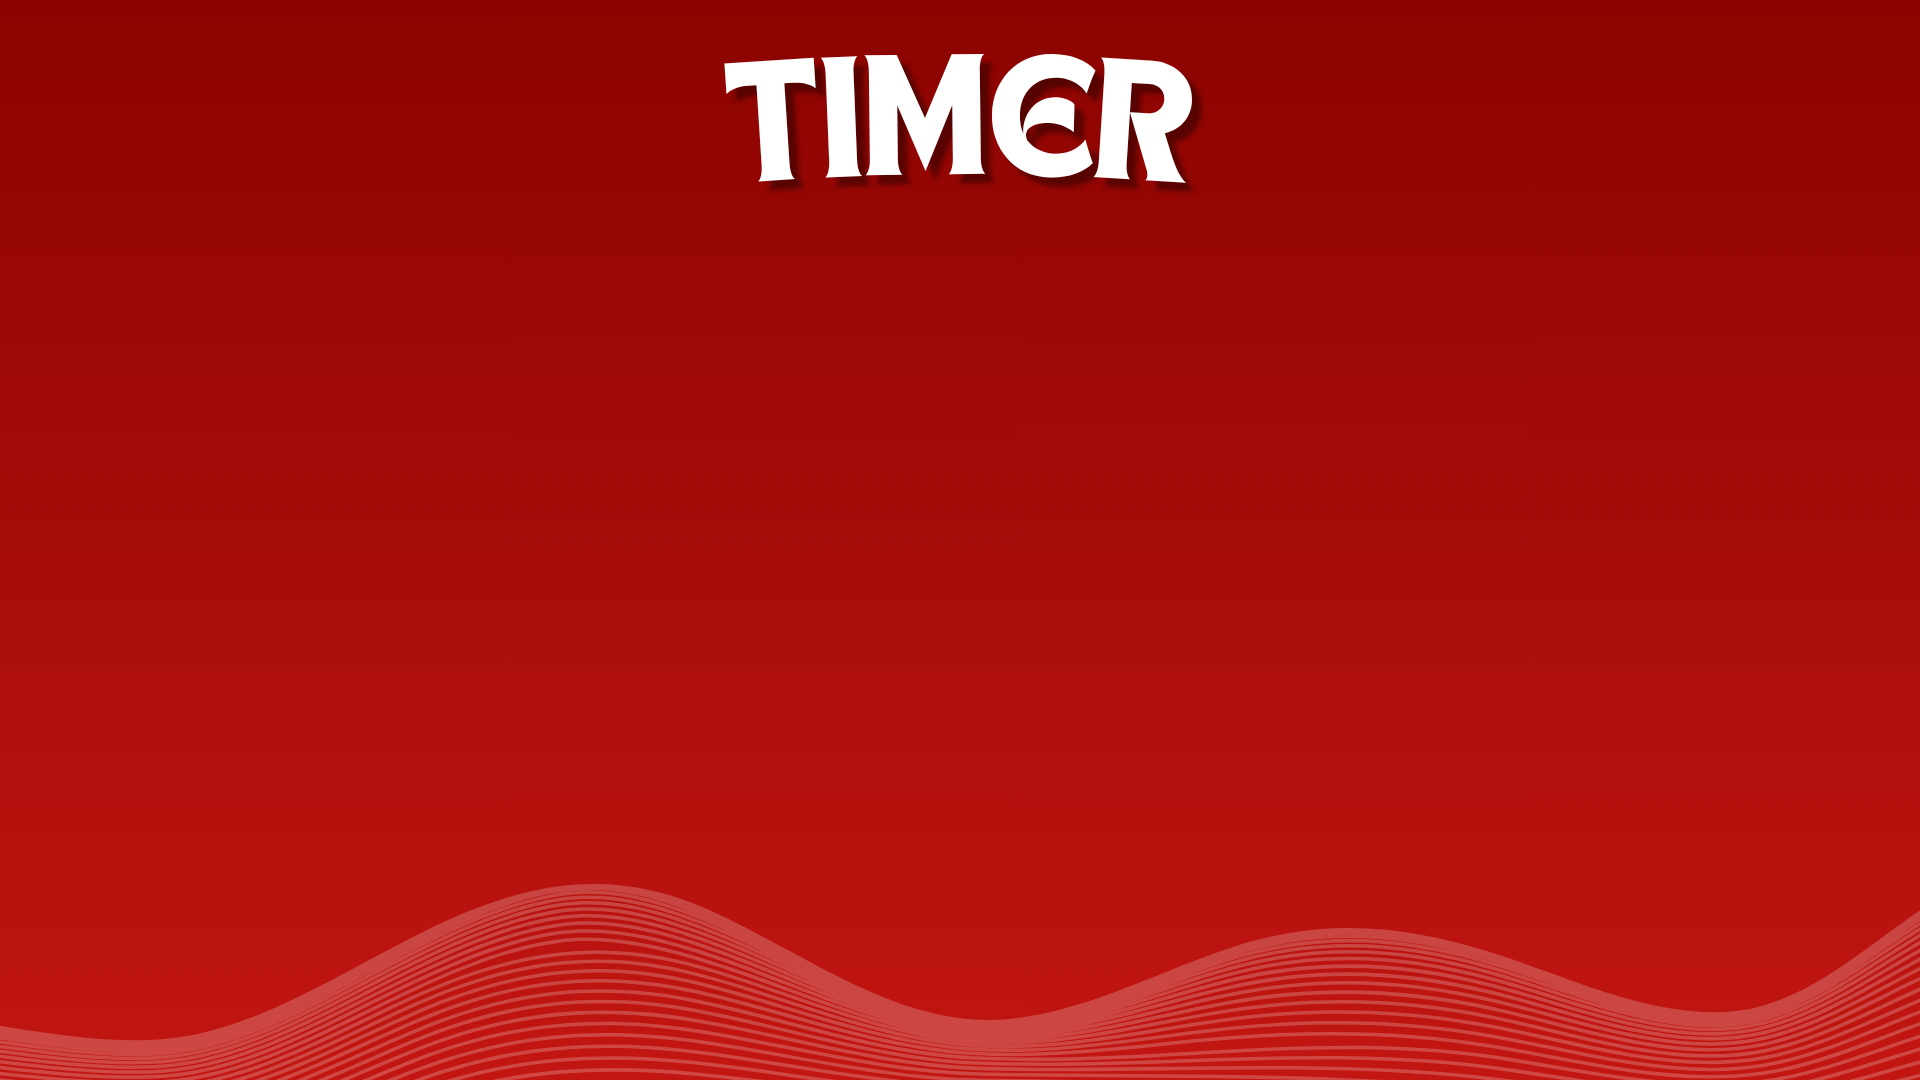
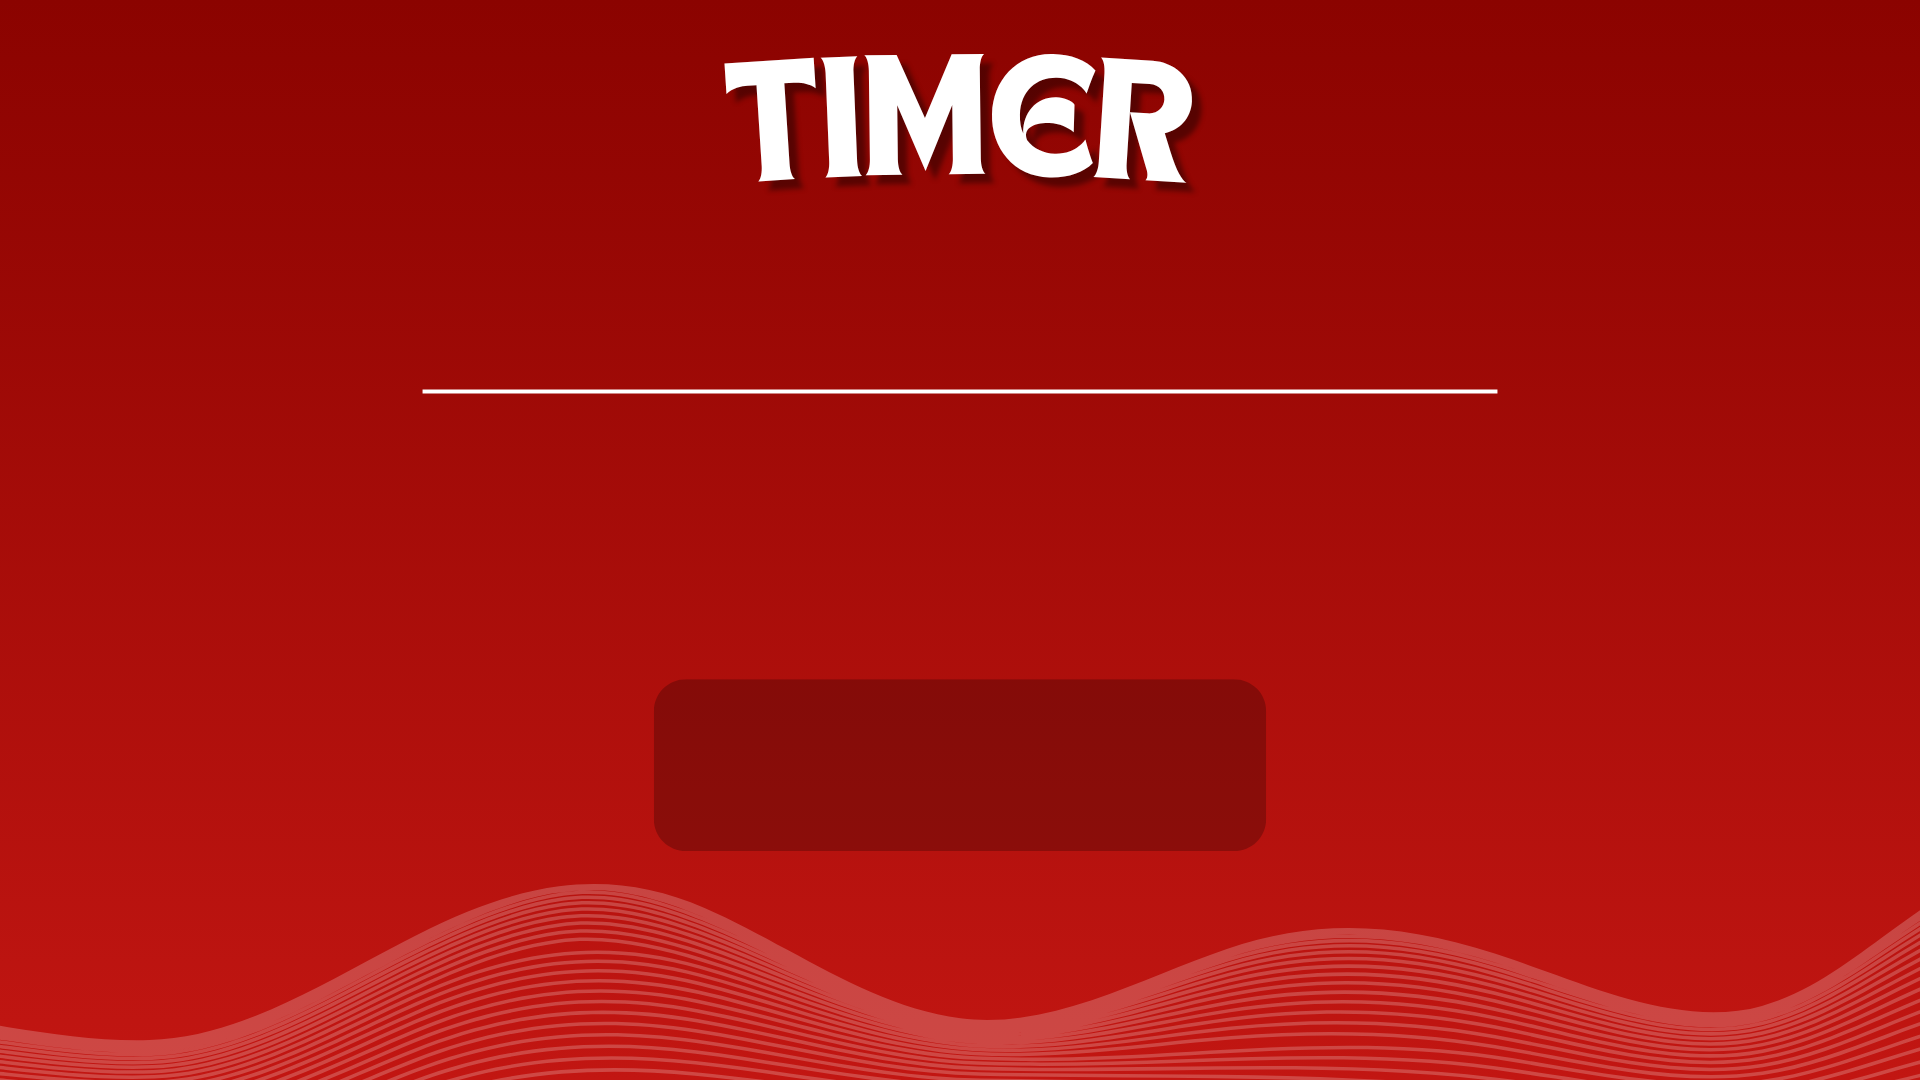
Added other buttons onto timer page

Changed region(s): [[0.3438, 0.6111, 0.6562, 0.7944], [0.2188, 0.3361, 0.7812, 0.3667]]

diff --git a/main.py b/main.py
@@ -53,7 +53,7 @@ class MenuPage:
 
         self.tasks_button = Button(self.studi_frame, image = self.tasks_image_tk, command = self.clicked, cursor = "hand2", bg="#a60c09", borderwidth=0, activebackground="#a60c09")
         self.tasks_button.place(relx = 0.53, rely= 0.44)
-        pywinstyles.set_opacity(self.timer_button, color="#a60c09")
+        pywinstyles.set_opacity(self.tasks_button, color="#a60c09")
 
         self.user_button = Button(self.studi_frame, image = self.user_image_tk, command = self.clicked, cursor = "hand2", bg="#8d0401", borderwidth=0, activebackground="#8d0401")
         self.user_button.place(relx = 0.85, rely= 0.022)
@@ -194,8 +194,67 @@ class TimerPage:
             corner_radius=0,
             border_color="#9d0905",
             hover_color="#8c0603")
-        self.timer_button2.place(relx=0.2,rely=0.28)
+        self.timer_button2.place(relx=0.21,rely=0.28)
 
+        self.short_break_button = customtkinter.CTkButton(
+            self.studi_frame,
+            text = "SHORT BREAK",
+            font=('Gaco Strong Demo', 50),
+            width = 550,
+            height = 60,
+            text_color = "white",
+            fg_color = "#9d0905",
+            border_width=0,
+            border_spacing=10,
+            corner_radius=0,
+            border_color="#9d0905",
+            hover_color="#8c0603")
+        self.short_break_button.place(relx=0.34,rely=0.28)
+
+        self.long_break_button = customtkinter.CTkButton(
+            self.studi_frame,
+            text = "LONG BREAK",
+            font=('Gaco Strong Demo', 50),
+            width = 450,
+            height = 60,
+            text_color = "white",
+            fg_color = "#9d0905",
+            border_width=0,
+            border_spacing=10,
+            corner_radius=0,
+            border_color="#9d0905",
+            hover_color="#8c0603")
+        self.long_break_button.place(relx=0.61,rely=0.28)
+
+        self.play_button = customtkinter.CTkButton(
+            self.studi_frame,
+            text="▶",
+            font=('Gaco Strong Demo', 100),
+            width=30,
+            height=30,
+            text_color="white",
+            fg_color="#870c09",
+            border_width=0,
+            border_spacing=10,
+            corner_radius=0,
+            border_color="#9d0905",
+            hover_color="#8c0603")
+        self.play_button.place(relx=0.4, rely=0.64)
+
+        self.pause_button = customtkinter.CTkButton(
+            self.studi_frame,
+            text="||",
+            font=('Gaco Strong Demo', 100),
+            width=100,
+            height=60,
+            text_color="white",
+            fg_color="#870c09",
+            border_width=0,
+            border_spacing=10,
+            corner_radius=0,
+            border_color="#9d0905",
+            hover_color="#8c0603")
+        self.pause_button.place(relx=0.54, rely=0.64)
 
 
     def clicked(self):
@@ -236,6 +295,7 @@ class TimerPage:
 #Runs the program
 if __name__ == "__main__": #Ensures the code only runs when the program is executed
     root = Tk()
+    canvas = Canvas(root)
     root.title("Studi") #Sets the title of the window to "Studi"
     root.attributes("-fullscreen", True) #Makes the window fullscreen
     studi_instance = MenuPage(root)  # Creates an instance of the MenuPage class
